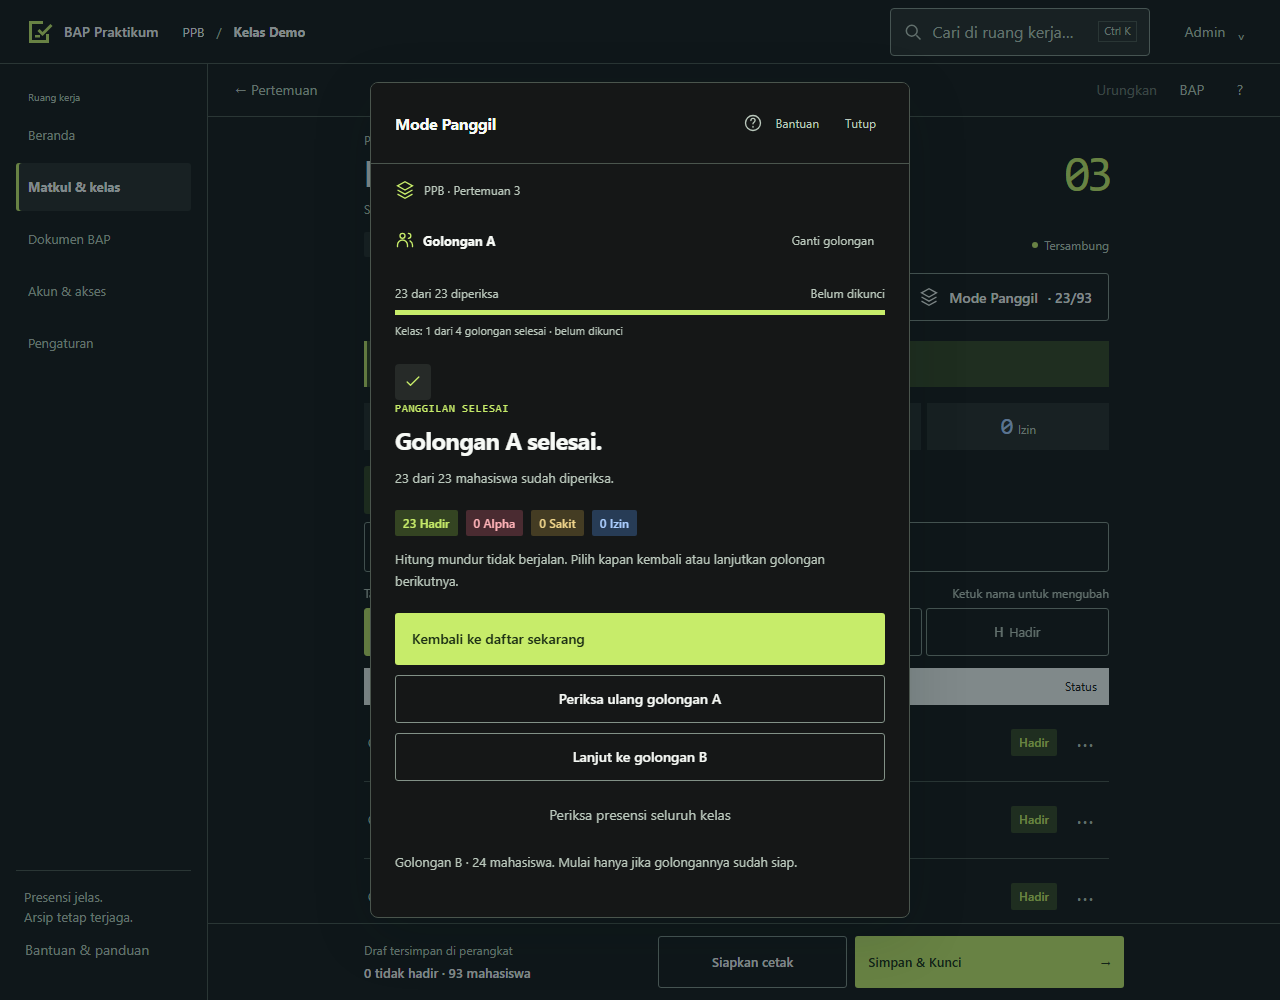
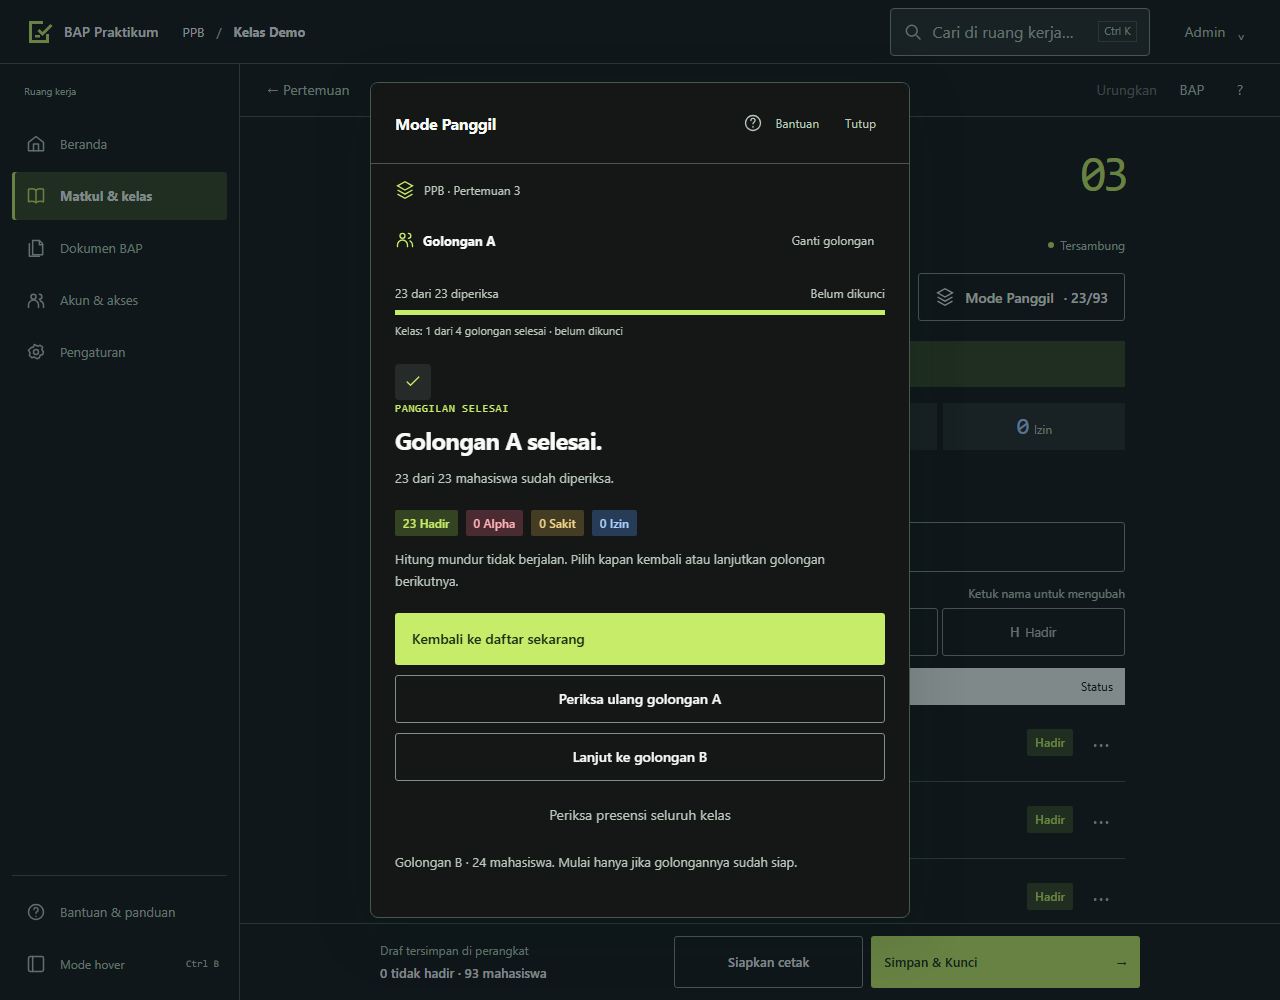
fix: pulihkan fokus Bantuan dan perbarui bukti integrasi sidebar

diff --git a/src/components/ModePanggil.jsx b/src/components/ModePanggil.jsx
@@ -1,4 +1,11 @@
-import { useEffect, useId, useMemo, useRef, useState } from "react";
+import {
+  useEffect,
+  useId,
+  useLayoutEffect,
+  useMemo,
+  useRef,
+  useState,
+} from "react";
 import Modal from "./Modal.jsx";
 import { LABEL } from "../lib/presensi.js";
 import { STATUS_PANGGIL, golonganPanggil } from "../lib/panggil.js";
@@ -114,6 +121,14 @@ export default function ModePanggil({
     travelling.current = false;
   }
   useEffect(() => () => cancel(), []);
+  useLayoutEffect(() => {
+    if (!help) return;
+    // Keep Escape inside this dialog even when WebKit doesn't focus a clicked button.
+    root.current
+      ?.querySelector(".call-help-panel h3")
+      ?.focus({ preventScroll: true });
+    root.current?.closest(".call-modal")?.scrollTo({ top: 0 });
+  }, [help]);
   useEffect(() => {
     if (!canEdit || unsafe) {
       cancel();
@@ -189,7 +204,6 @@ export default function ModePanggil({
       requestAnimationFrame(() =>
         helpButton.current?.focus({ preventScroll: true }),
       );
-    else focusPanel(".call-help-panel h3");
   }
 
   function focusStatus() {

diff --git a/docs/mode-panggil/README.md b/docs/mode-panggil/README.md
@@ -1,6 +1,6 @@
 # Bukti UI Mode Panggil
 
-Base: `b1c7ee1c86f0fe90134c42a95c169f3585ab0a9e` (merge PR #6).
+Base: `56e8b5eecd751e80ff697cebf5a1d077a3394581` (merge sidebar PR #8).
 Sumber sebelum diekstrak langsung dari commit base oleh `git archive`, bukan
 merekonstruksi tampilan lama lewat CSS pada kode sesudah.
 
@@ -26,7 +26,7 @@ node scripts/ui/panggil.cjs --capture-only
 | Bantuan di popup | ![Bantuan desktop](bantuan-desktop.png) | ![Bantuan HP](bantuan-mobile.png) |
 | Hasil setelah countdown dibatalkan | ![Selesai desktop](selesai-desktop.png) | ![Selesai HP](selesai-mobile.png) |
 
-`results.json` adalah ringkasan 20 kelompok UI kartu yang lulus (10 per browser,
+`results.json` adalah ringkasan 22 kelompok UI kartu yang lulus (11 per browser,
 Chromium dan WebKit). Rincian cakupan serta batas verifikasi ada di
 [`../MODE-PANGGIL.md`](../MODE-PANGGIL.md). Tes UI backend QA nyata terpisah lulus
 24 kelompok, failure injection 6 kelompok, renderer PDF 2 browser dan responsif

diff --git a/docs/MODE-PANGGIL.md b/docs/MODE-PANGGIL.md
@@ -1,8 +1,8 @@
 # Mode Panggil — Kartu Geser + Keyboard
 
-Implementasi pada branch `codex/mode-panggil`, berangkat dari merge PR #6,
-`b1c7ee1c86f0fe90134c42a95c169f3585ab0a9e`. Target rilis PR/preview untuk review;
-tidak melakukan merge atau migrasi produksi.
+Implementasi pada branch `codex/mode-panggil`, diperbarui setelah sidebar PR #8
+masuk main (`56e8b5eecd751e80ff697cebf5a1d077a3394581`). Kedua suite UI dijalankan
+bersama, termasuk prioritas popup Mode Panggil terhadap hover dan shortcut sidebar.
 
 ## Perilaku
 
